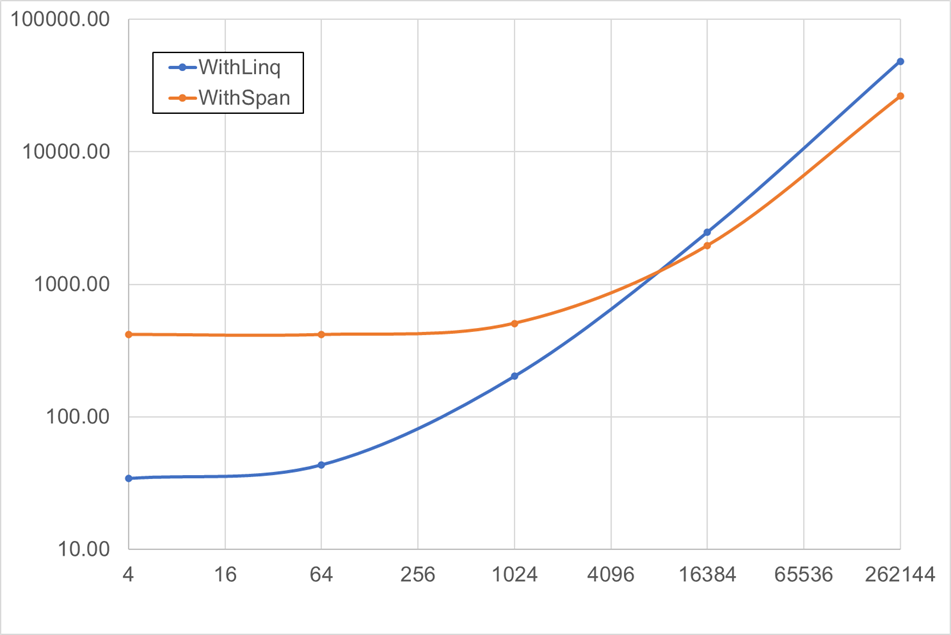
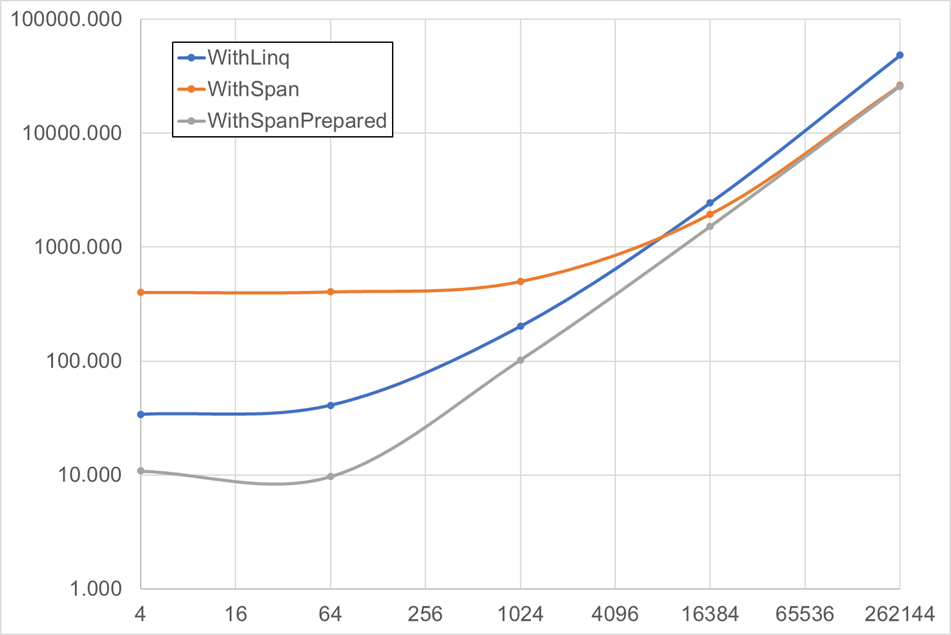
Add WithSpanPrepared() to ContainsAny

diff --git a/ContainsAny/ContainsAnyBenchmark.cs b/ContainsAny/ContainsAnyBenchmark.cs
@@ -1,4 +1,6 @@
 
+using System.Buffers;
+
 using BenchmarkDotNet.Attributes;
 using BenchmarkDotNet.Running;
 
@@ -9,12 +11,14 @@ public class ContainsAnyBenchmark
 {
     private string source;
     private string[] keywords;
+    private SearchValues<string> searchValues;
 
     [GlobalSetup]
     public void Setup()
     {
         this.source = string.Join(string.Empty, Enumerable.Repeat(this.Case ? 'a' : 'e', this.N));
         this.keywords = ["aaa", "bbb", "ccc"];
+        this.searchValues = SearchValues.Create(this.keywords, StringComparison.Ordinal);
     }
 
     [Params(4, 64, 1024, 16384, 262144)]
@@ -33,5 +37,11 @@ public class ContainsAnyBenchmark
     public bool WithSpan()
     {
         return ContainsAny.WithSpan(this.source, this.keywords, StringComparison.Ordinal);
+    }
+
+    [Benchmark]
+    public bool WithSpanPrepared()
+    {
+        return ContainsAny.WithSpanPrepared(this.source, this.searchValues);
     }
 }

diff --git a/ContainsAny/ContainsAnyTest.cs b/ContainsAny/ContainsAnyTest.cs
@@ -1,4 +1,6 @@
 
+using System.Buffers;
+
 using Microsoft.VisualStudio.TestTools.UnitTesting;
 
 [TestClass]
@@ -14,6 +16,12 @@ public class ContainsAnyTest
     public void WithSpanTest()
     {
         Test((source, keywords) => ContainsAny.WithSpan(source, keywords, StringComparison.Ordinal));
+    }
+
+    [TestMethod]
+    public void WithSpanPreparedTest()
+    {
+        Test((source, keywords) => ContainsAny.WithSpanPrepared(source, SearchValues.Create(keywords, StringComparison.Ordinal)));
     }
 
     private static void Test(Func<string, string[], bool> containsAny)

diff --git a/ContainsAny/ContainsAny.cs b/ContainsAny/ContainsAny.cs
@@ -12,4 +12,9 @@ public class ContainsAny
     {
         return source.AsSpan().ContainsAny(SearchValues.Create(keywords, comparisonType));
     }
+
+    public static bool WithSpanPrepared(string source, SearchValues<string> values)
+    {
+        return source.AsSpan().ContainsAny(values);
+    }
 }

diff --git a/ContainsAny/README.md b/ContainsAny/README.md
@@ -1,7 +1,7 @@
 ## Result
 
-- 対象の文字列が長い場合、`ReadOnlySpan` の `ContainsAny()` を利用した方が速い
-- 対象の文字列が短い場合、LINQで十分
+- `SearchValues` を再利用できる場合は `ReadOnlySpan` の `ContainsAny()` が安定して速い
+- 対象の文字列が長い場合は `ReadOnlySpan` の `ContainsAny()` が、短い場合は LINQ が速い
 
 ```
 BenchmarkDotNet v0.14.0, Windows 11 (10.0.26100.3194)
@@ -11,27 +11,37 @@ Intel Core i7-10700 CPU 2.90GHz, 1 CPU, 16 logical and 8 physical cores
   DefaultJob : .NET 9.0.2 (9.0.225.6610), X64 RyuJIT AVX2
 ```
 
-| Method   | N      | Case  | Mean         | Error      | StdDev     | Gen0   | Gen1   | Allocated |
-|--------- |------- |------ |-------------:|-----------:|-----------:|-------:|-------:|----------:|
-| WithLinq | 4      | False |     34.39 ns |   0.157 ns |   0.147 ns | 0.0114 |      - |      96 B |
-| WithSpan | 4      | False |    418.47 ns |   8.366 ns |  13.977 ns | 0.1884 | 0.0010 |    1576 B |
-| WithLinq | 4      | True  |     20.27 ns |   0.199 ns |   0.177 ns | 0.0115 |      - |      96 B |
-| WithSpan | 4      | True  |    417.14 ns |   3.220 ns |   2.854 ns | 0.1884 | 0.0010 |    1576 B |
-| WithLinq | 64     | False |     43.51 ns |   0.282 ns |   0.263 ns | 0.0114 |      - |      96 B |
-| WithSpan | 64     | False |    417.32 ns |   3.532 ns |   3.304 ns | 0.1884 | 0.0010 |    1576 B |
-| WithLinq | 64     | True  |     19.97 ns |   0.072 ns |   0.064 ns | 0.0115 |      - |      96 B |
-| WithSpan | 64     | True  |    419.22 ns |   3.552 ns |   3.149 ns | 0.1884 | 0.0010 |    1576 B |
-| WithLinq | 1024   | False |    202.54 ns |   0.212 ns |   0.188 ns | 0.0114 |      - |      96 B |
-| WithSpan | 1024   | False |    508.11 ns |   2.170 ns |   2.030 ns | 0.1879 | 0.0010 |    1576 B |
-| WithLinq | 1024   | True  |     21.83 ns |   0.122 ns |   0.114 ns | 0.0115 |      - |      96 B |
-| WithSpan | 1024   | True  |    429.47 ns |   7.449 ns |  12.028 ns | 0.1884 | 0.0010 |    1576 B |
-| WithLinq | 16384  | False |  2,474.43 ns |  10.529 ns |   9.334 ns | 0.0114 |      - |      96 B |
-| WithSpan | 16384  | False |  1,964.41 ns |   2.048 ns |   1.815 ns | 0.1869 |      - |    1576 B |
-| WithLinq | 16384  | True  |     20.15 ns |   0.255 ns |   0.238 ns | 0.0115 |      - |      96 B |
-| WithSpan | 16384  | True  |    425.95 ns |   2.910 ns |   2.430 ns | 0.1884 | 0.0010 |    1576 B |
-| WithLinq | 262144 | False | 48,413.49 ns | 202.083 ns | 189.028 ns |      - |      - |      96 B |
-| WithSpan | 262144 | False | 26,341.89 ns |  64.342 ns |  60.185 ns | 0.1831 |      - |    1576 B |
-| WithLinq | 262144 | True  |     20.83 ns |   0.412 ns |   0.763 ns | 0.0115 |      - |      96 B |
-| WithSpan | 262144 | True  |    429.84 ns |   4.851 ns |   4.537 ns | 0.1884 | 0.0010 |    1576 B |
+| Method           | N      | Case  | Mean          | Error       | StdDev      | Gen0   | Gen1   | Allocated |
+|----------------- |------- |------ |--------------:|------------:|------------:|-------:|-------:|----------:|
+| WithLinq         | 4      | False |     34.146 ns |   0.2388 ns |   0.2233 ns | 0.0114 |      - |      96 B |
+| WithSpan         | 4      | False |    402.358 ns |   3.7895 ns |   3.5447 ns | 0.1884 | 0.0010 |    1576 B |
+| WithSpanPrepared | 4      | False |     10.848 ns |   0.0092 ns |   0.0076 ns |      - |      - |         - |
+| WithLinq         | 4      | True  |     18.263 ns |   0.2407 ns |   0.2251 ns | 0.0115 |      - |      96 B |
+| WithSpan         | 4      | True  |    407.784 ns |   5.6476 ns |   5.2828 ns | 0.1884 | 0.0010 |    1576 B |
+| WithSpanPrepared | 4      | True  |     11.358 ns |   0.0042 ns |   0.0035 ns |      - |      - |         - |
+| WithLinq         | 64     | False |     41.034 ns |   0.3539 ns |   0.3310 ns | 0.0114 |      - |      96 B |
+| WithSpan         | 64     | False |    406.099 ns |   5.5903 ns |   5.2292 ns | 0.1884 | 0.0010 |    1576 B |
+| WithSpanPrepared | 64     | False |      9.686 ns |   0.0053 ns |   0.0045 ns |      - |      - |         - |
+| WithLinq         | 64     | True  |     19.970 ns |   0.2110 ns |   0.1870 ns | 0.0115 |      - |      96 B |
+| WithSpan         | 64     | True  |    407.653 ns |   5.7592 ns |   5.3871 ns | 0.1884 | 0.0010 |    1576 B |
+| WithSpanPrepared | 64     | True  |     12.625 ns |   0.0095 ns |   0.0084 ns |      - |      - |         - |
+| WithLinq         | 1024   | False |    202.036 ns |   0.3079 ns |   0.2730 ns | 0.0114 |      - |      96 B |
+| WithSpan         | 1024   | False |    501.027 ns |   5.3079 ns |   4.9650 ns | 0.1879 | 0.0010 |    1576 B |
+| WithSpanPrepared | 1024   | False |    102.175 ns |   0.0947 ns |   0.0840 ns |      - |      - |         - |
+| WithLinq         | 1024   | True  |     19.331 ns |   0.2029 ns |   0.1898 ns | 0.0115 |      - |      96 B |
+| WithSpan         | 1024   | True  |    409.643 ns |   4.2793 ns |   4.0028 ns | 0.1884 | 0.0010 |    1576 B |
+| WithSpanPrepared | 1024   | True  |     14.569 ns |   0.0065 ns |   0.0058 ns |      - |      - |         - |
+| WithLinq         | 16384  | False |  2,451.188 ns |   2.9492 ns |   2.7587 ns | 0.0114 |      - |      96 B |
+| WithSpan         | 16384  | False |  1,953.101 ns |   5.0902 ns |   4.5123 ns | 0.1869 |      - |    1576 B |
+| WithSpanPrepared | 16384  | False |  1,521.691 ns |   2.2700 ns |   2.1234 ns |      - |      - |         - |
+| WithLinq         | 16384  | True  |     19.285 ns |   0.1520 ns |   0.1422 ns | 0.0115 |      - |      96 B |
+| WithSpan         | 16384  | True  |    410.603 ns |   3.6750 ns |   3.4376 ns | 0.1884 | 0.0010 |    1576 B |
+| WithSpanPrepared | 16384  | True  |     12.308 ns |   0.0076 ns |   0.0068 ns |      - |      - |         - |
+| WithLinq         | 262144 | False | 48,452.787 ns |  36.1770 ns |  32.0699 ns |      - |      - |      96 B |
+| WithSpan         | 262144 | False | 26,382.008 ns |  16.5176 ns |  13.7929 ns | 0.1831 |      - |    1576 B |
+| WithSpanPrepared | 262144 | False | 25,888.941 ns | 136.2801 ns | 120.8088 ns |      - |      - |         - |
+| WithLinq         | 262144 | True  |     20.070 ns |   0.2240 ns |   0.2096 ns | 0.0115 |      - |      96 B |
+| WithSpan         | 262144 | True  |    413.106 ns |   4.3953 ns |   4.1114 ns | 0.1884 | 0.0010 |    1576 B |
+| WithSpanPrepared | 262144 | True  |     12.187 ns |   0.2669 ns |   0.3177 ns |      - |      - |         - |
 
 ![Graph](img/Graph.png)
